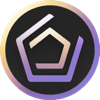
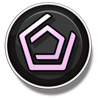
Geode Contributors 1.1.0

diff --git a/Geode Contributors/src/main.cpp b/Geode Contributors/src/main.cpp
@@ -2,64 +2,90 @@
 #include <Geode/modify/ProfilePage.hpp>
 #include <Geode/binding/ProfilePage.hpp>
 #include <Geode/Bindings.hpp>
+#include <Geode/utils/web.hpp>
 #include <Geode/loader/Loader.hpp>
 #include <algorithm>
+#include <set>
 #include <cctype>
+#include <matjson.hpp>
 
 using namespace geode::prelude;
 
 // sorry for the mess, im not the c++ coder lmfao
 
-class buttonfunctionthing : public CCLayer {
-	public:
-	void onButtonClick(CCObject* sender) {
-		FLAlertLayer::create(
-			"About",
-			"This badge is given to <cp>Geode Contributors</c>. If you have contributed to geode in anyway (Bindings, Main Geode Loader/Mod, Etc...), You will obtain this badge. (Don't have the Badge? Read the about.md!)",
-			"OK"
-		)->show();
-	}
-};
+std::set<int> geodeContributors;
+bool gotTheShit = false;
 
 class $modify(ProfilePage) {
-	bool m_hasBeenOpened = false;
+public:
+    bool loadedOnce = false;
 
-	bool init(int p0, bool p1) {
-		if (!ProfilePage::init(p0, p1)) return false;
+    bool init(int p0, bool p1) {
+        if (!ProfilePage::init(p0, p1)) return false;
 
-		std::set<int> geodeContributors = {25397826, 5568872, 3516725, 11535118, 761691, 104257, 807756, 16778880};
-																									
-
-		m_mainLayer->removeChildByID("my-stuff-hint");
-		auto mainMenu = static_cast<cocos2d::CCLayer*>(this->getChildByIDRecursive("main-menu"));
-		auto spr = CCSprite::create("geode.png"_spr);
-		auto btn = CCMenuItemSpriteExtra::create(
-       		spr, this, menu_selector(buttonfunctionthing::onButtonClick)
-    	);
-		auto contentSize = mainMenu->getContentSize();
-
-
-		btn->setPosition(375.500, -11);
-		btn->setZOrder(26);
-		btn->setID("geode-badge");
-		mainMenu->addChild(btn);
-		btn->setVisible(false);
-
-		std::string username = m_usernameLabel->getString();
-
-		if (geodeContributors.count(p0) > 0) 
+		if (!gotTheShit)
 		{
-			btn->setVisible(true);
-        }
-		else
-		{
-			// how many times do we have to tell you this old man
+			auto res = web::fetch("https://raw.githubusercontent.com/Uproxide/GeodeMods/main/other/contributors.txt");
+			if (!res) {
+				log::info("Failed to fetch Contributors! Your internet is probably hot ass rn :ned:");
+			}
+			else {
+				auto data = res.value();
+			
+				std::istringstream iss(data);
+				int tempid;
+
+				while (iss >> tempid) {
+					geodeContributors.insert(tempid);
+				}
+				gotTheShit = true;
+			}
 		}
 
-		auto posX = m_usernameLabel->getPositionX();
-		auto posY = m_usernameLabel->getPositionY();
+        
+															
 
+		for (const auto& contributor : geodeContributors) {
+			if (contributor == p0) {
+				CCNode* first_letter = reinterpret_cast<CCNode*>(m_usernameLabel->getChildren()->objectAtIndex(0));
+				auto spr = CCSprite::create("geode.png"_spr);
+				auto layerIWant = static_cast<cocos2d::CCLayer*>(this->getChildren()->objectAtIndex(0));
+				spr->setScale(1.1f); // much better
+				spr->setPosition(first_letter->convertToWorldSpace(getPosition()));
+				spr->setPosition({spr->getPositionX() - 15.f, spr->getPositionY() + 10.f});
+				spr->setID("geode-badge");
+				layerIWant->addChild(spr);
 
+				auto ytbadge = static_cast<cocos2d::CCSprite*>(this->getChildren()->objectAtIndex(1));
+
+				if (Loader::get()->isModLoaded("xanii.youtubers") && ytbadge) {
+					ytbadge->setScale(0.4f);
+					ytbadge->setPosition(ccp(220.4, 274.6));
+					ytbadge->setZOrder(1);
+				}
+				else
+				{
+					// no error handling? this works too so erm
+				}
+			}
+		}
 		return true;
+	}
+
+	void setupPageInfo(gd::string name, char const* chars) {
+		ProfilePage::setupPageInfo(name,chars);
+
+		auto ytbadge = static_cast<cocos2d::CCSprite*>(this->getChildren()->objectAtIndex(1));
+		auto geodebadge = static_cast<cocos2d::CCSprite*>(this->getChildByID("geode-badge"));
+		
+
+		if (Loader::get()->isModLoaded("xanii.youtubers") && ytbadge && geodebadge) {
+			ytbadge->setScale(0.4f);
+			ytbadge->setPosition(ccp(220.4, 274.6));
+		}
+		else
+		{
+			// no error handling?
+		}
 	}
 };

diff --git a/Geode Contributors/about.md b/Geode Contributors/about.md
@@ -2,6 +2,10 @@
 
 A mod that gives Geode Contributors a Special Geode Badge
 
-## Have you Contributed to Geode and Don't have the badge?
+## Have you Contributed to Geode Loader/Bindings and Don't have the badge?
 
 DM Me (kotthesillyone) your GD User/Account ID and i'll add you to the next update
+
+## Credits
+ * [Uproxide](user:25397826)
+ * cutiny_

diff --git a/Geode Contributors/changelog.md b/Geode Contributors/changelog.md
@@ -1,3 +1,10 @@
+# 1.1.0
+
+ * IDs are now online, so i dont have to update on giving a person the badge
+ * Support for Youtubers Mod (Xanii)
+ * Badge next to name
+ * An Icon
+
 # 1.0.1
 
  * Fixed Crashing on Blocking a User
